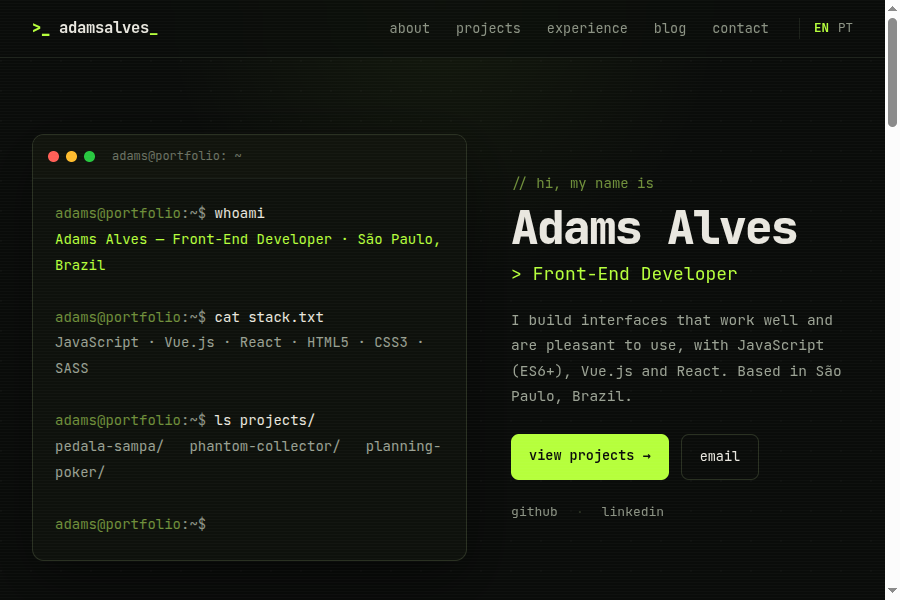
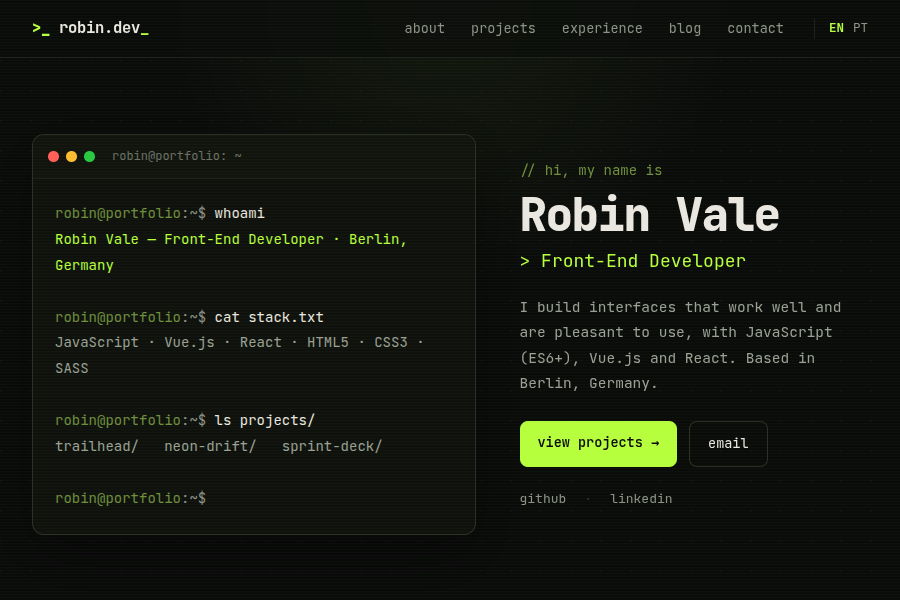
docs: screenshot the demo instead of a personal site
images/screenshot.png and images/tn.png were captures of adamsalves.dev
— personal branding, personal projects, "adams@portfolio" in the hero
terminal. The demo those images sit next to serves the bundled
exampleSite, which is a different persona entirely (robin.dev, Robin
Vale, trailhead/neon-drift/sprint-deck). Anyone following the demo link
from the README, or seeing the pair side by side in the Hugo theme
gallery where theme.toml points demosite at it, lands somewhere that
does not look like what was advertised.

Recaptured both from the published demo at the sizes the gallery
requires (1500x1000 and 900x600), keeping the original framing: the full
hero plus the start of the projects section for the screenshot, hero
only for the thumbnail. Both previously had the browser scrollbar baked
into the right edge; scrollbars are hidden in the new captures.

Also fixed the README image path, which was absolute (/images/...).
That resolves on github.com but not everywhere the README gets rendered
— including the theme gallery — so it is now relative. Added a demo link
next to the image while touching that line.

diff --git a/README.md b/README.md
@@ -2,7 +2,10 @@
 
 Personal **dark / monospace** theme for portfolio + blog. Typing terminal hero, repository-style project cards, a blog with a reading-progress bar, tag pages and a 404 — all in the same aesthetic. **No third-party JS dependencies.**
 
-![Terminal Mono](/images/screenshot.png)
+![Terminal Mono](images/screenshot.png)
+
+**[Live demo →](https://adamsalves.github.io/terminal-mono/)** — the screenshot above is
+the bundled `exampleSite/`, which is exactly what the demo serves.
 
 - 🎨 Dark-only, JetBrains Mono, lime accent — all driven by CSS variables.
 - ⌨ Hero terminal with a typewriter effect (degrades gracefully without JS).

diff --git a/CHANGELOG.md b/CHANGELOG.md
@@ -6,6 +6,13 @@ and this project adheres to [Semantic Versioning](https://semver.org/).
 
 ## [Unreleased]
 
+### Changed
+- Docs: `images/screenshot.png` and `images/tn.png` are now captures of the bundled
+  `exampleSite/` — what the demo and the theme gallery actually serve — instead of a
+  personal site with unrelated branding and content. Both were also recaptured without
+  the browser scrollbar that had been baked into them, and the README image now uses a
+  relative path so it resolves outside github.com too.
+
 ## [0.2.2] — 2026-08-11
 
 ### Added
